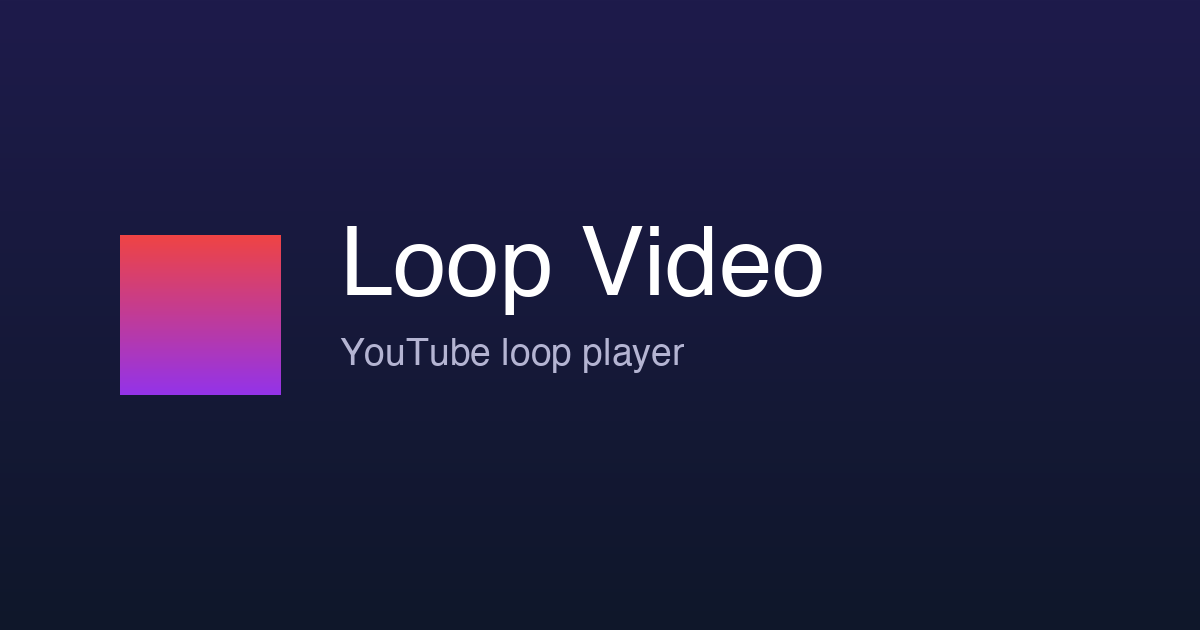
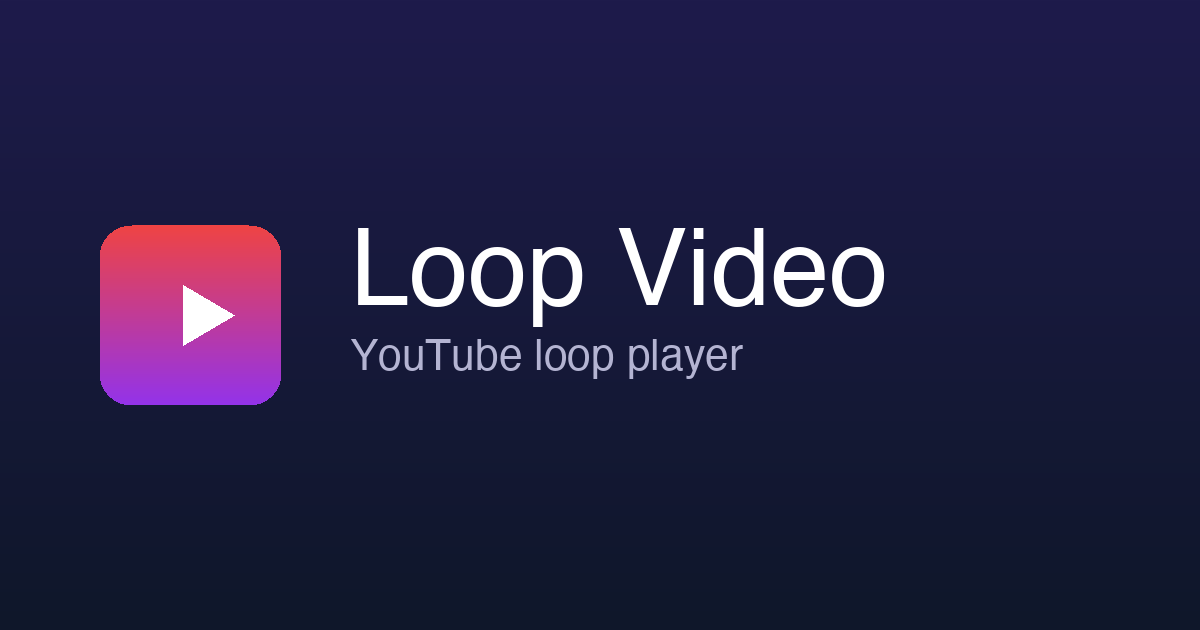
fix: OGP画像にアイコンと再生ボタンを追加

diff --git a/app/Console/Commands/GenerateOgpImage.php b/app/Console/Commands/GenerateOgpImage.php
@@ -25,24 +25,46 @@ class GenerateOgpImage extends Command
             imageline($img, 0, $y, $w, $y, imagecolorallocate($img, $r, $g, $b));
         }
 
-        // アイコン背景（赤→紫グラデーション）
-        $iconSize = 160;
-        $iconX    = 120;
+        // アイコン背景（赤→紫グラデーション・丸角）
+        $iconSize = 180;
+        $iconX    = 100;
         $iconY    = (int)(($h - $iconSize) / 2);
+        $radius   = 32;
 
         for ($y = 0; $y < $iconSize; $y++) {
             $ratio = $y / $iconSize;
             $r = (int)(239 + (147 - 239) * $ratio);
             $g = (int)(68  + (51  - 68)  * $ratio);
             $b = (int)(68  + (234 - 68)  * $ratio);
-            imageline($img, $iconX, $iconY + $y, $iconX + $iconSize, $iconY + $y, imagecolorallocate($img, $r, $g, $b));
+            $color = imagecolorallocate($img, $r, $g, $b);
+
+            // 丸角を考慮した描画幅を計算
+            $xOffset = 0;
+            if ($y < $radius) {
+                $xOffset = (int)($radius - sqrt($radius ** 2 - ($radius - $y) ** 2));
+            } elseif ($y > $iconSize - $radius) {
+                $xOffset = (int)($radius - sqrt($radius ** 2 - ($y - ($iconSize - $radius)) ** 2));
+            }
+            imageline($img, $iconX + $xOffset, $iconY + $y, $iconX + $iconSize - $xOffset, $iconY + $y, $color);
         }
 
+        // 再生ボタン（白い三角形）
         $white     = imagecolorallocate($img, 255, 255, 255);
         $grayLight = imagecolorallocate($img, 180, 180, 210);
-        $textX     = $iconX + $iconSize + 60;
 
-        // フォント（macOS → Linux → fallback の順で試す）
+        $cx = $iconX + (int)($iconSize / 2) + 8;
+        $cy = $iconY + (int)($iconSize / 2);
+        $tw = 52;
+        $th = 60;
+
+        imagefilledpolygon($img, [
+            $cx - (int)($tw * 0.3), $cy - (int)($th / 2),
+            $cx + (int)($tw * 0.7), $cy,
+            $cx - (int)($tw * 0.3), $cy + (int)($th / 2),
+        ], $white);
+
+        // テキスト
+        $textX = $iconX + $iconSize + 70;
         $fonts = [
             '/System/Library/Fonts/Helvetica.ttc',
             '/usr/share/fonts/truetype/dejavu/DejaVuSans-Bold.ttf',
@@ -51,8 +73,8 @@ class GenerateOgpImage extends Command
         $font = collect($fonts)->first(fn($f) => file_exists($f));
 
         if ($font) {
-            imagettftext($img, 72, 0, $textX, (int)($h / 2 - 20), $white, $font, 'Loop Video');
-            imagettftext($img, 28, 0, $textX, (int)($h / 2 + 50), $grayLight, $font, 'YouTube loop player');
+            imagettftext($img, 80, 0, $textX, (int)($h / 2 - 10), $white, $font, 'Loop Video');
+            imagettftext($img, 32, 0, $textX, (int)($h / 2 + 55), $grayLight, $font, 'YouTube loop player');
         }
 
         $dir = public_path('images');
